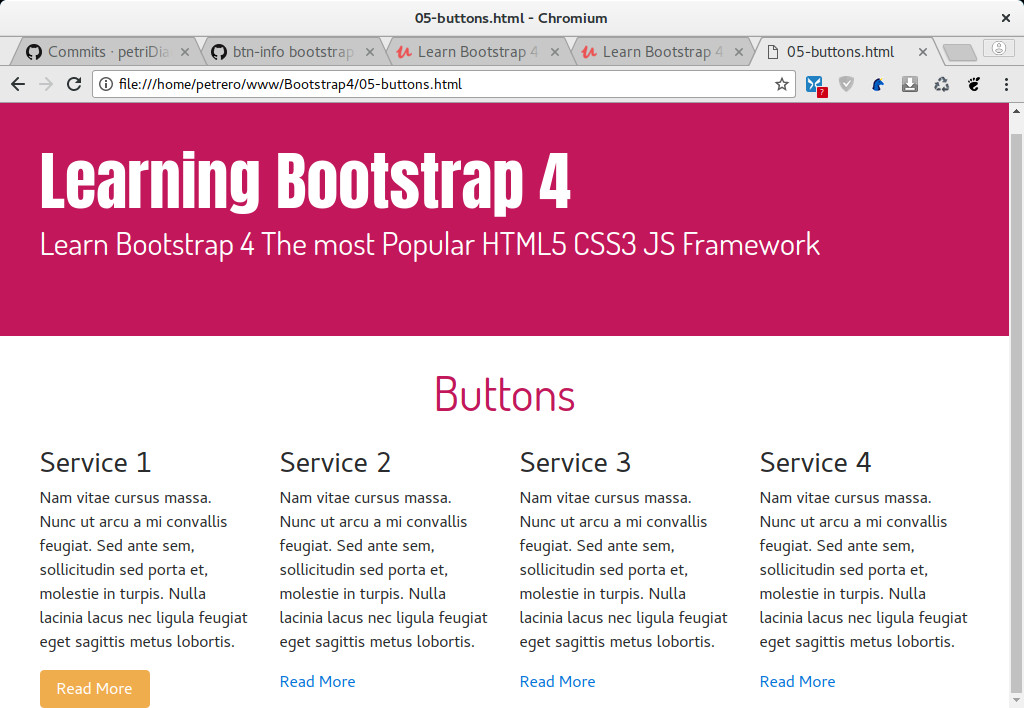
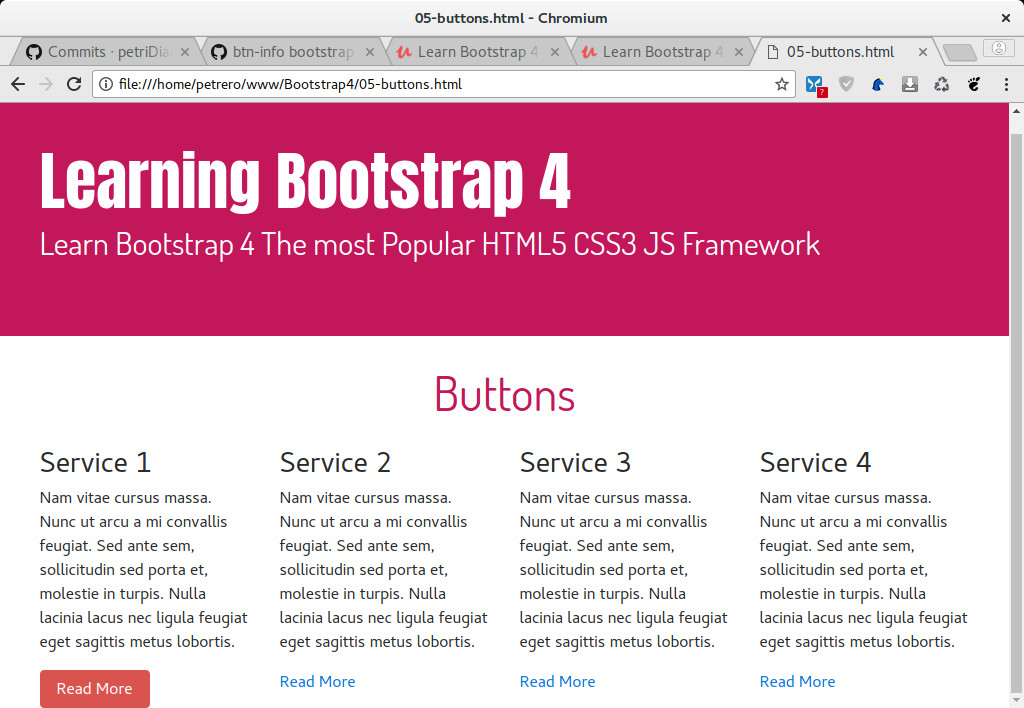
btn-danger bootstrap class effect

Changed region(s): [[0.0312, 0.9322, 0.1562, 1.0]]

diff --git a/05-buttons.html b/05-buttons.html
@@ -27,7 +27,7 @@
             <div class="col-6 col-sm-3">
                   <h3>Service 1</h3>
                   <p>Nam vitae cursus massa. Nunc ut arcu a mi convallis feugiat. Sed ante sem, sollicitudin sed porta et, molestie in turpis. Nulla lacinia lacus nec ligula feugiat eget sagittis metus lobortis.</p>
-                  <a href="#" class="btn btn-warning">Read More</a>
+                  <a href="#" class="btn btn-danger">Read More</a>
                     
             </div>
             <div class="col-6 col-sm-3">
